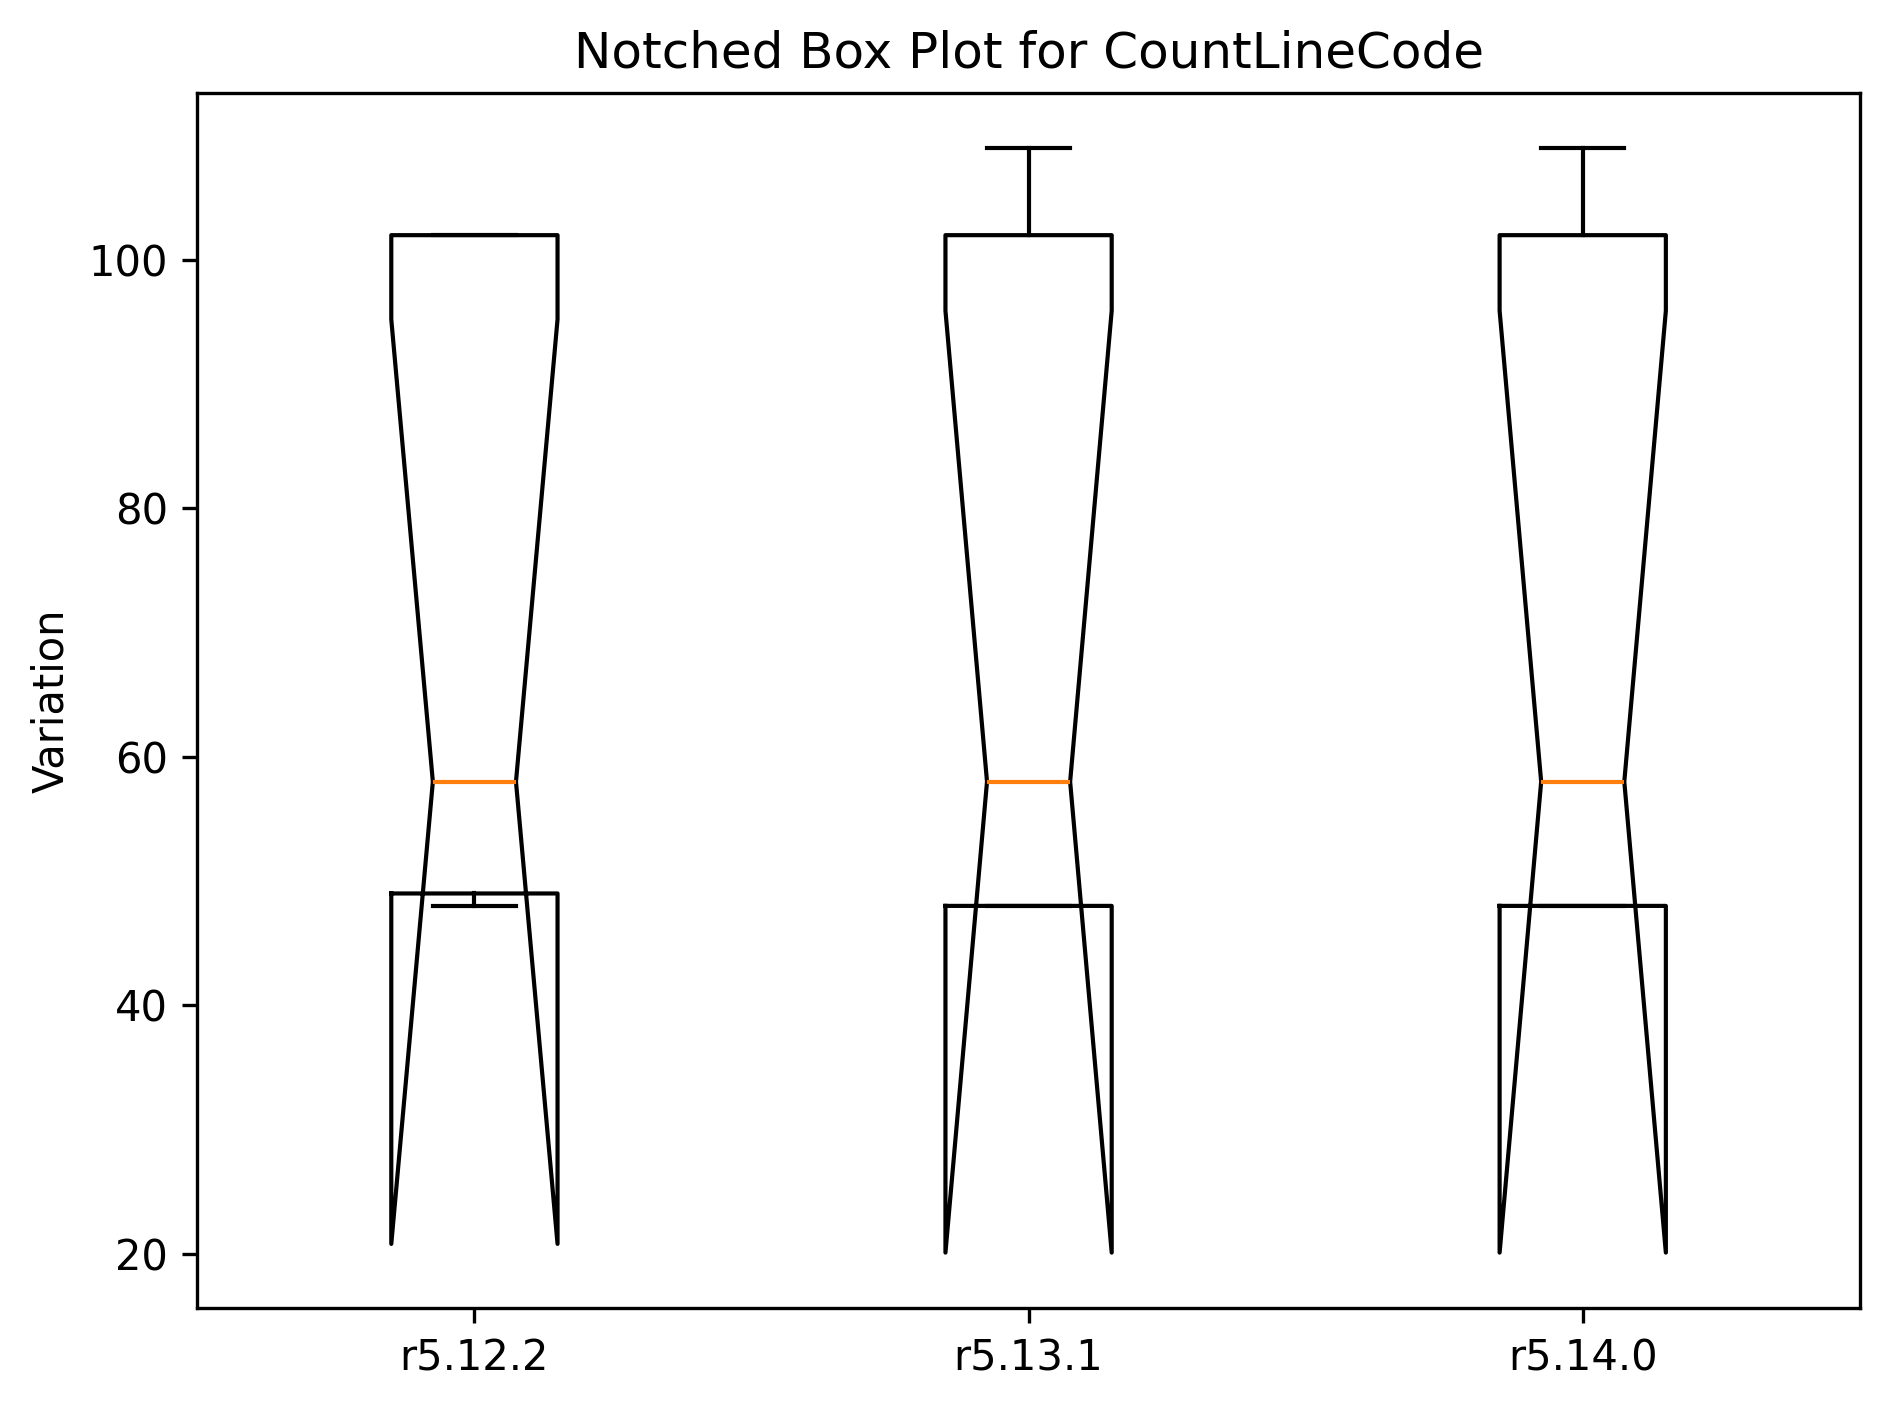
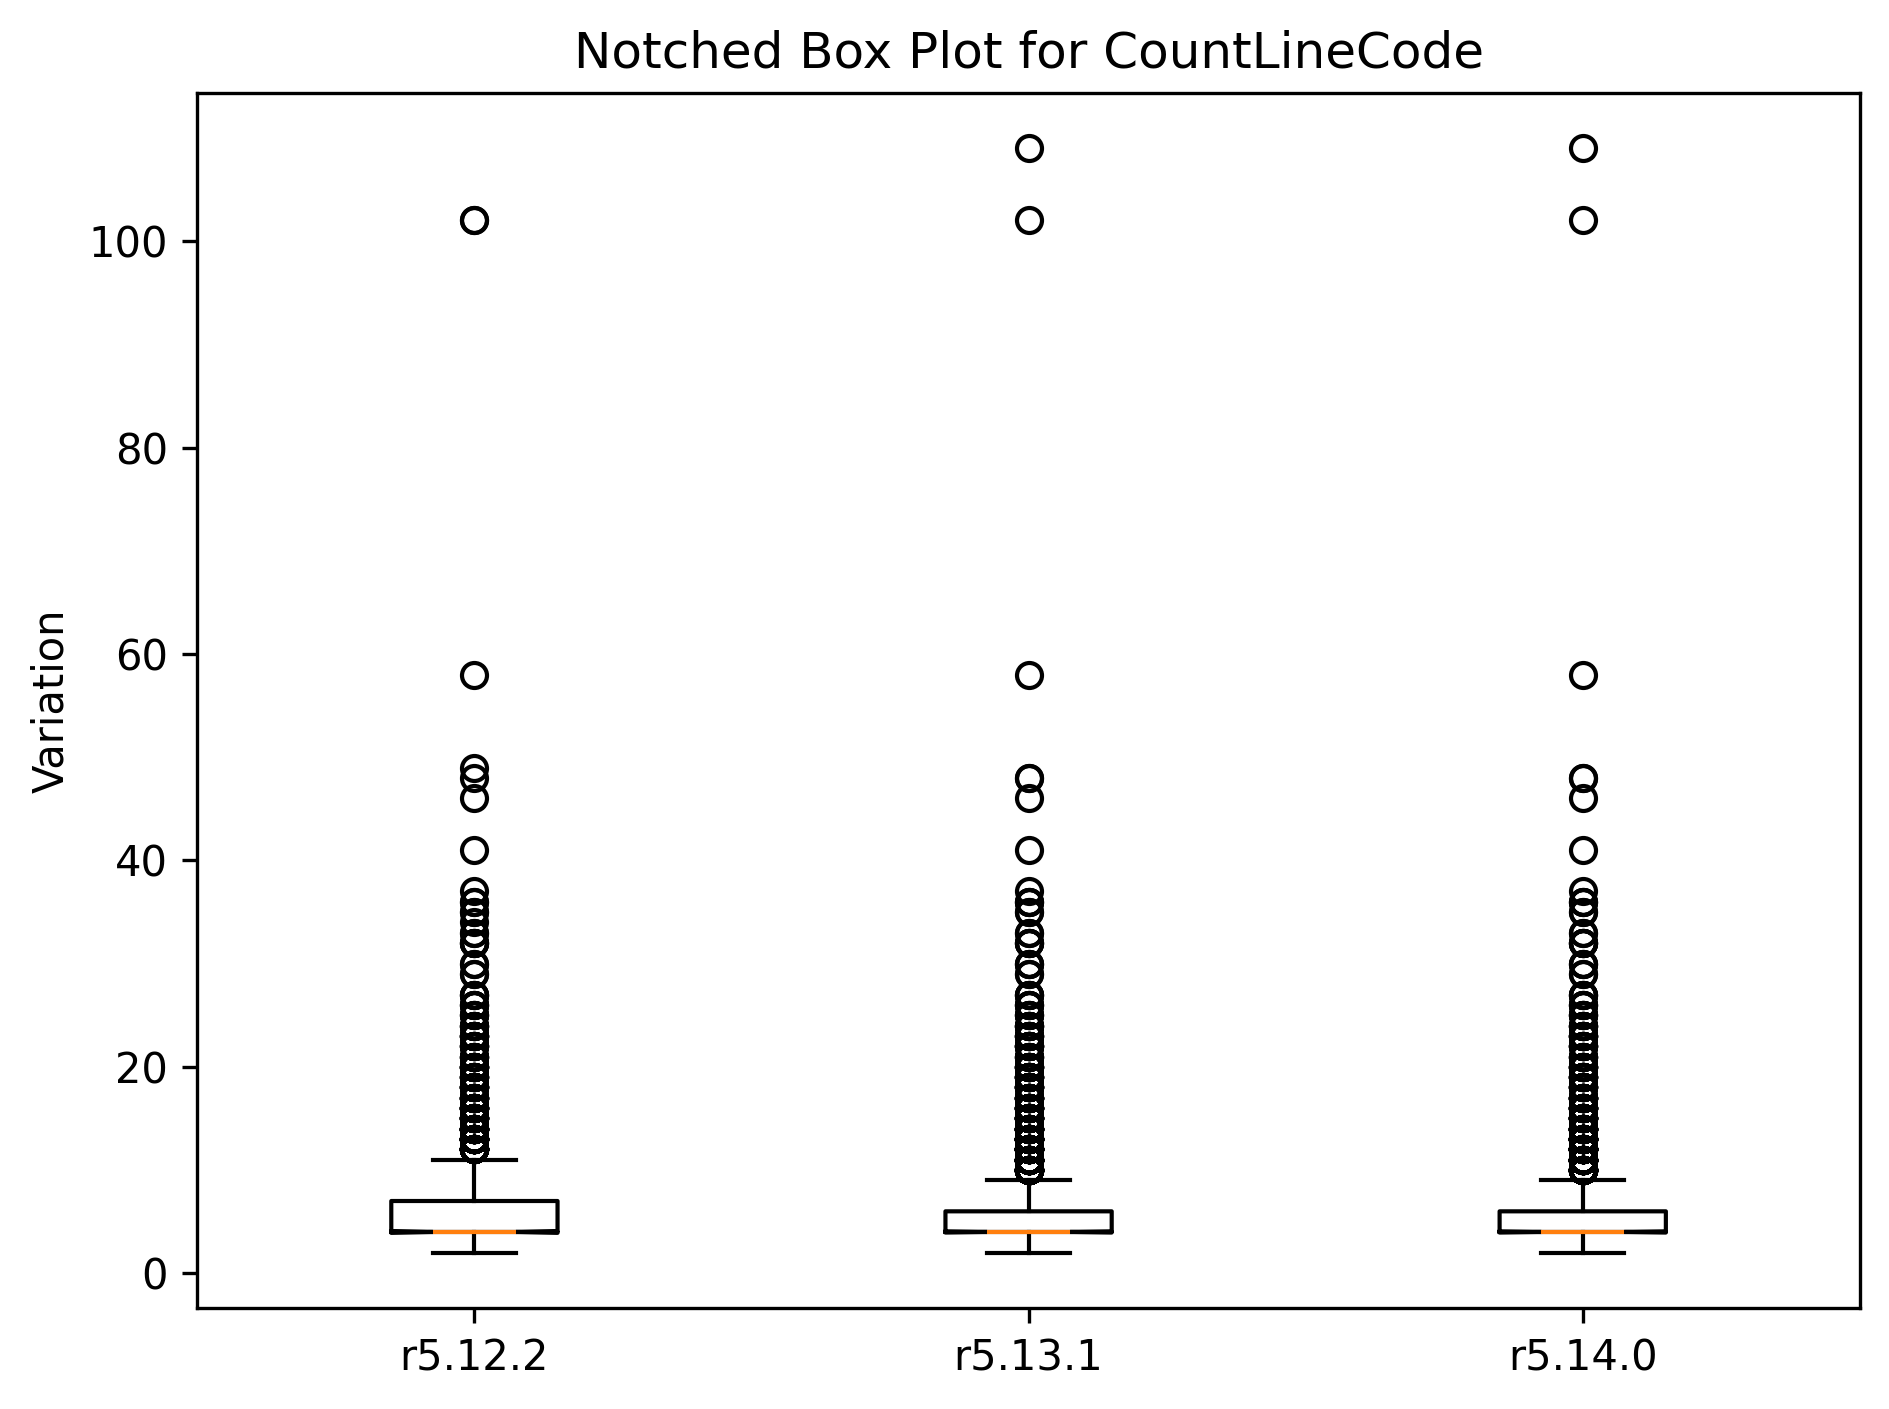
update boxplots and add function for top 5 methods of any metric

diff --git a/method-level.py b/method-level.py
@@ -36,12 +36,12 @@ extracted_methods_junit5_r5_13_1.to_csv('methods/csv filtered/r5.13.1-filtered.c
 extracted_methods_junit5_r5_14_0.to_csv('methods/csv filtered/r5.14.0-filtered.csv', index=False)
 
 
-def top_5_by_sloc(dataframe, release_name):
-    top_5 = dataframe.nlargest(5, 'CountLineCode')[['Name', 'Kind', 'CountLineCode', 'SumCyclomatic', 'Essential']]
+def top_5_by_metric(dataframe, metric_column, metric_name, release_name):
+    top_5 = dataframe.nlargest(5, metric_column)[['Name', 'Kind', 'CountLineCode', 'SumCyclomatic', 'Essential']]
     
-    print(f"\n\n5 methods with highest SLOC for {release_name}:")
+    print(f"\n\nTop 5 methods with highest {metric_name} for {release_name}:")
     print(f"{'Rank':<6} {'SLOC':<8} {'Sum CC':<15} {'EC':<15} {'Kind':<20} {'Method Name'}")
-    print(f"{'-'*100}")
+    print(f"{'-'*150}")
     
     for idx, (i, row) in enumerate(top_5.iterrows(), 1):
         print(f"{idx:<6} {row['CountLineCode']:<8.0f} {row['SumCyclomatic']:<15.0f} "
@@ -49,14 +49,32 @@ def top_5_by_sloc(dataframe, release_name):
     
     return top_5
 
-top_5_r5_12_2 = top_5_by_sloc(extracted_methods_junit5_r5_12_2, "r5.12.2")
-top_5_r5_13_1 = top_5_by_sloc(extracted_methods_junit5_r5_13_1, "r5.13.1")
-top_5_r5_14_0 = top_5_by_sloc(extracted_methods_junit5_r5_14_0, "r5.14.0")
+print("="*150)
+print("TOP 5 BY SLOC (Source Lines of Code)")
+print("="*150)
+top_5_sloc_r5_12_2 = top_5_by_metric(extracted_methods_junit5_r5_12_2, 'CountLineCode', 'SLOC', 'r5.12.2')
+top_5_sloc_r5_13_1 = top_5_by_metric(extracted_methods_junit5_r5_13_1, 'CountLineCode', 'SLOC', 'r5.13.1')
+top_5_sloc_r5_14_0 = top_5_by_metric(extracted_methods_junit5_r5_14_0, 'CountLineCode', 'SLOC', 'r5.14.0')
+
+print("\n" + "="*150)
+print("TOP 5 BY EC (Essential Complexity)")
+print("="*150)
+top_5_ec_r5_12_2 = top_5_by_metric(extracted_methods_junit5_r5_12_2, 'Essential', 'EC', 'r5.12.2')
+top_5_ec_r5_13_1 = top_5_by_metric(extracted_methods_junit5_r5_13_1, 'Essential', 'EC', 'r5.13.1')
+top_5_ec_r5_14_0 = top_5_by_metric(extracted_methods_junit5_r5_14_0, 'Essential', 'EC', 'r5.14.0')
+
+print("\n" + "="*150)
+print("TOP 5 BY SUM CC (Sum Cyclomatic Complexity)")
+print("="*150)
+top_5_cc_r5_12_2 = top_5_by_metric(extracted_methods_junit5_r5_12_2, 'SumCyclomatic', 'Sum CC', 'r5.12.2')
+top_5_cc_r5_13_1 = top_5_by_metric(extracted_methods_junit5_r5_13_1, 'SumCyclomatic', 'Sum CC', 'r5.13.1')
+top_5_cc_r5_14_0 = top_5_by_metric(extracted_methods_junit5_r5_14_0, 'SumCyclomatic', 'Sum CC', 'r5.14.0')
+
 
 OO_metrics = ['CountLineCode', 'SumCyclomatic', 'Essential']
-x1 = top_5_r5_12_2
-x2 = top_5_r5_13_1
-x3 = top_5_r5_14_0
+x1 = extracted_methods_junit5_r5_12_2
+x2 = extracted_methods_junit5_r5_13_1
+x3 = extracted_methods_junit5_r5_14_0
 
 os.makedirs('methods/boxplots', exist_ok=True)
 
